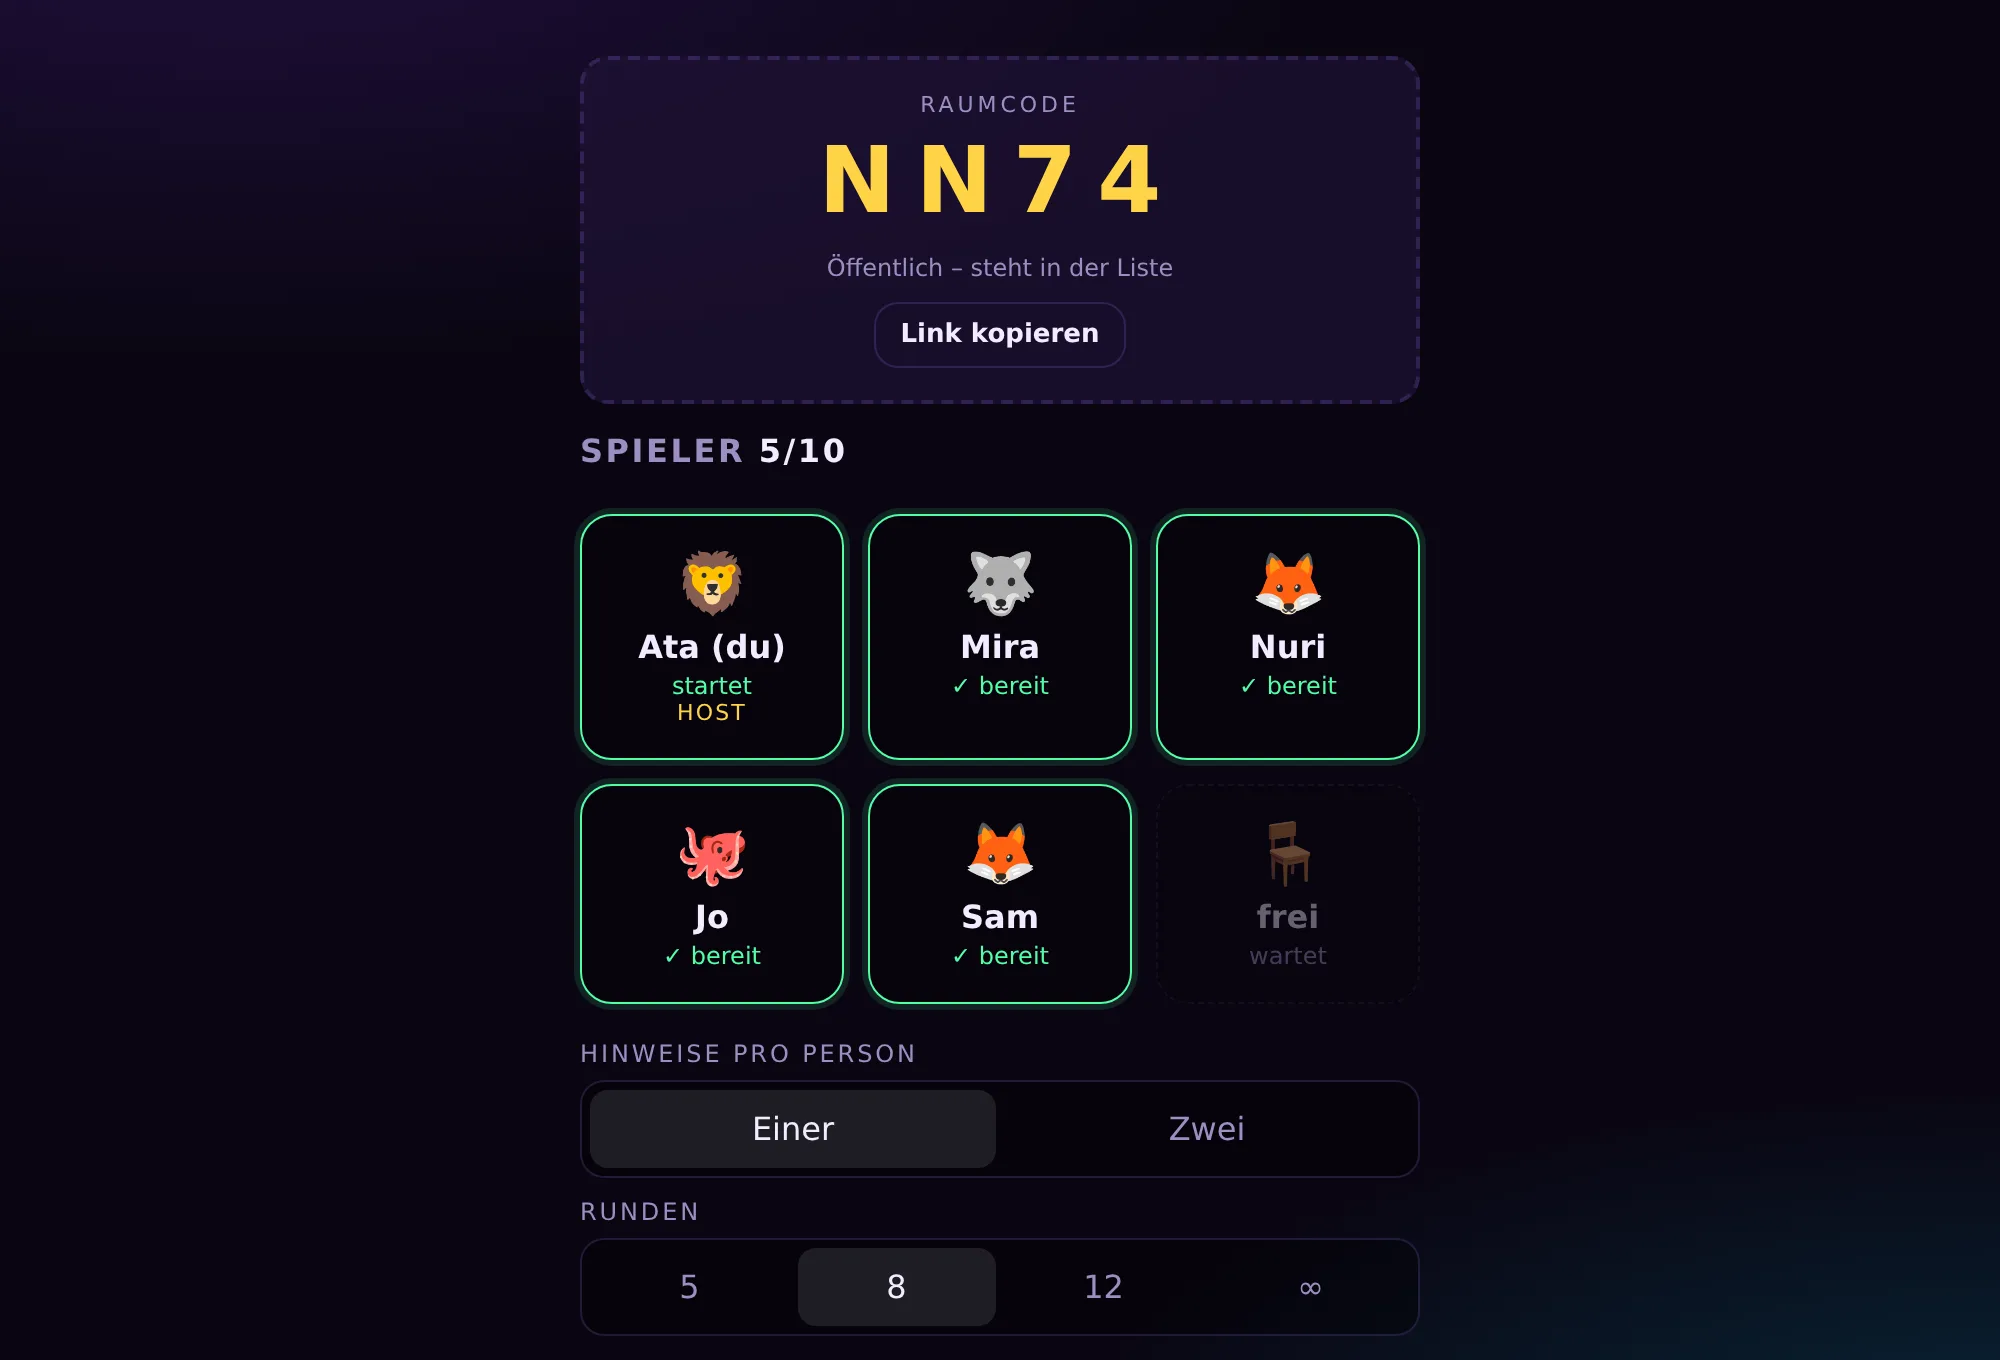
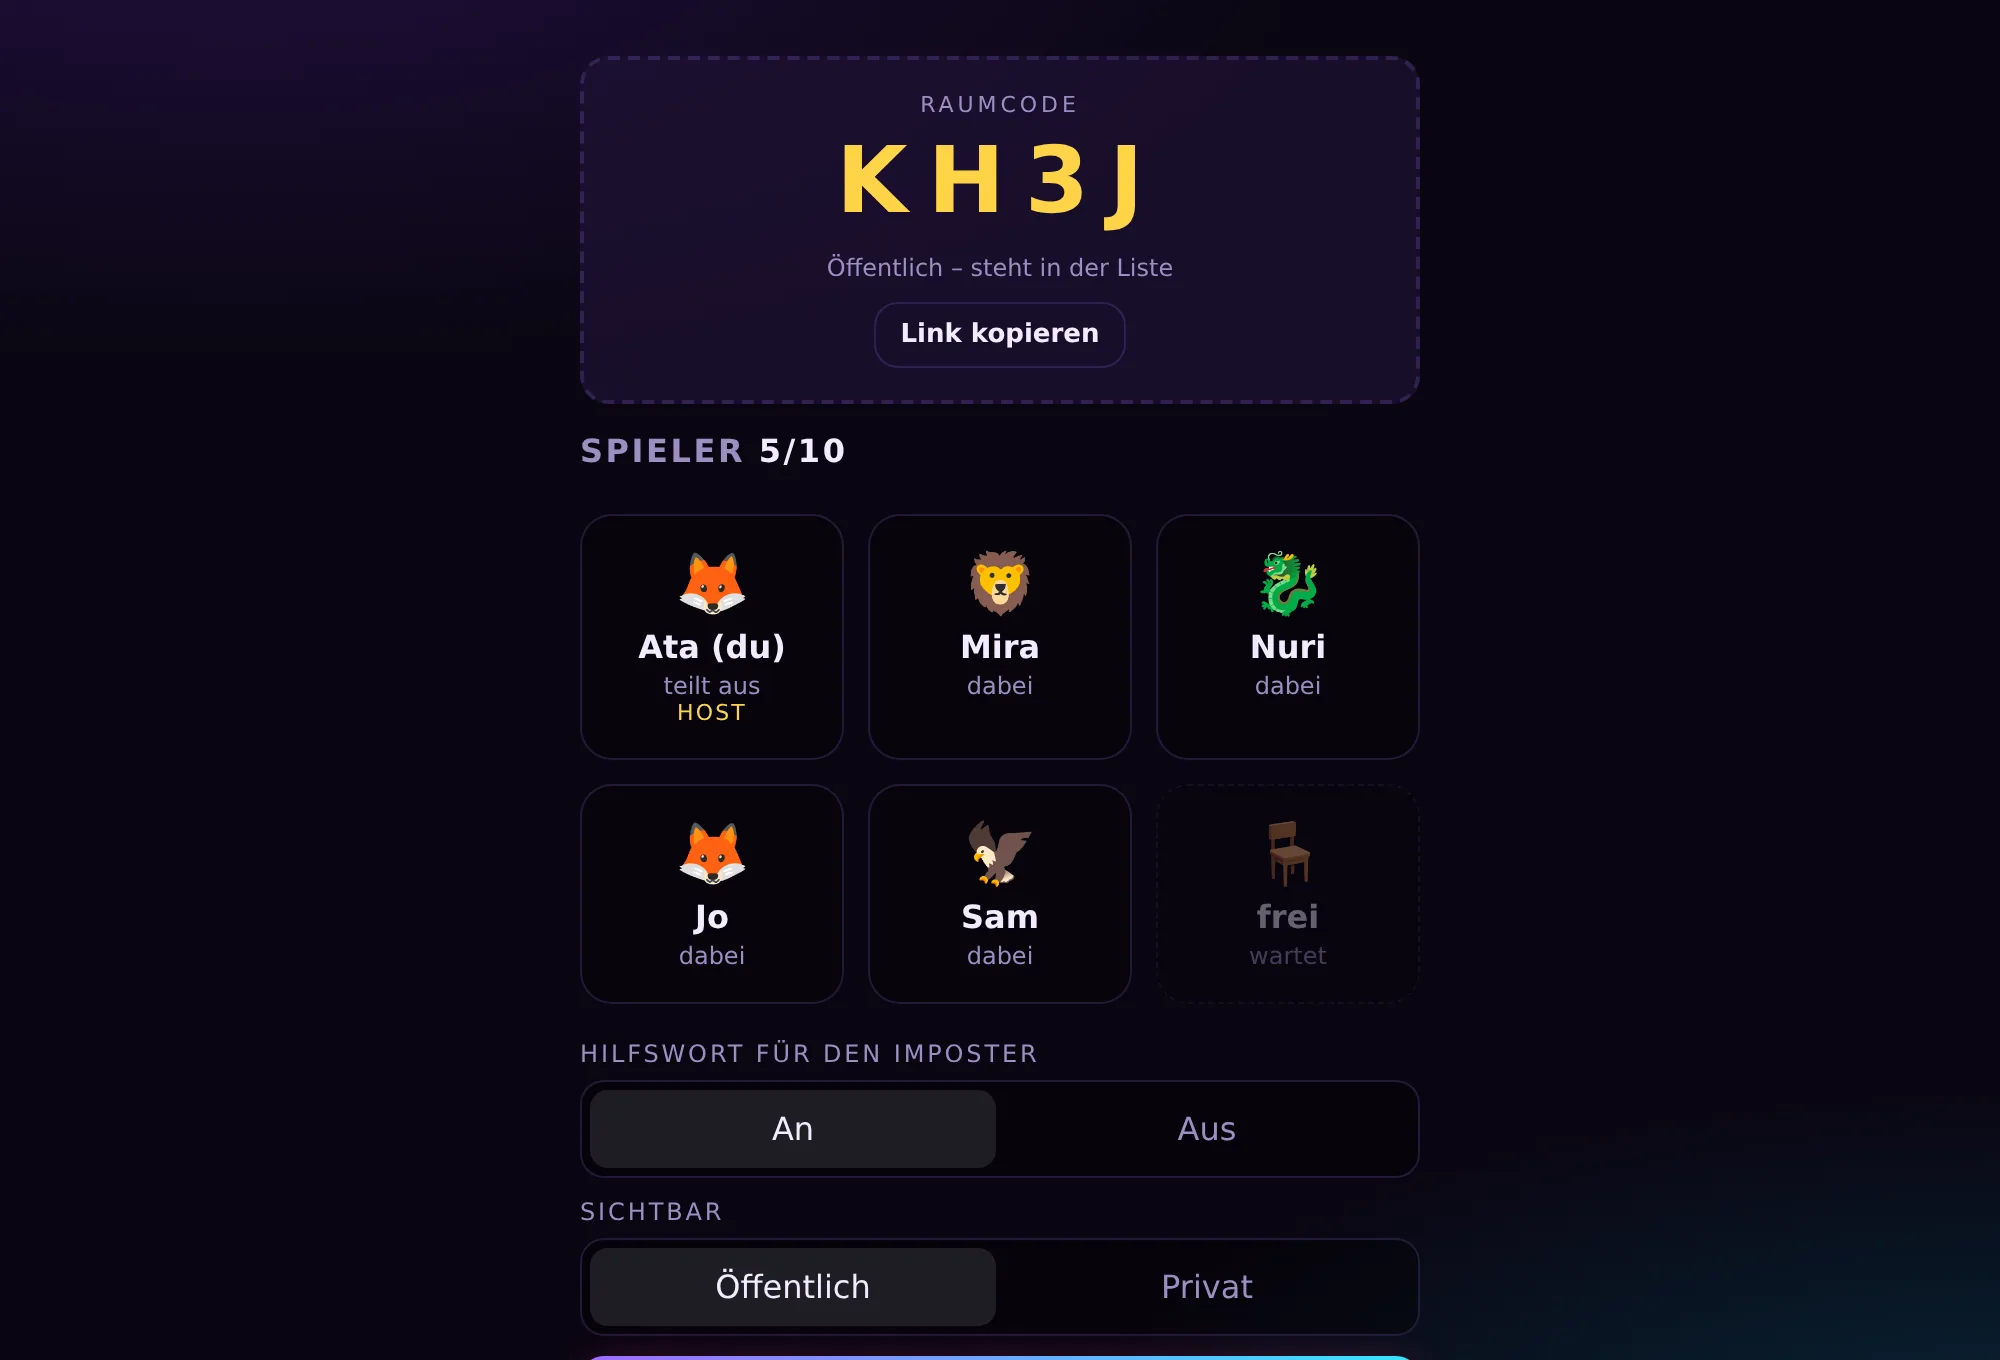
Imposter ohne Ablauf: Kachel, Bilder und die gemeinsamen Proben nachziehen
Imposter teilt nur noch Karten aus – kein Bereitmelden, keine
Hinweisreihe, keine Abstimmung, keine Punkte. Alles, was das von aussen
beschreibt oder abklopft, stimmte damit nicht mehr.

Kachel und Anleitung sagen jetzt, was wirklich passiert, und „4–10"
wird zu „3–10" (die Vier stand da wegen der Abstimmung). Die Bilder sind
neu aufgenommen: fuer die Kachel diesmal die **aufgeloeste** Runde, denn
waehrend der Runde steht auf dem Bildschirm nur ein Wort, und das ist
als Vorschaubild zu wenig.

Zwei gemeinsame Proben haben angenommen, jedes Spiel sei wie die
anderen gebaut – das war bisher wahr und ist es jetzt nicht mehr:

- `lobbyprobe.mjs` wartete auf „alle bereit", bevor sie starten liess,
  und erwartete bei L12, dass ein Nachzuegler abprallt. Beides haengt
  jetzt an zwei Merkmalen, die sie sich wie schon `kannEnde` aus dem
  Quelltext liest. L09 nimmt ausserdem den Warteraum als gueltiges Ende
  einer Runde an, nicht nur einen Endstand.
- `pruefe-ausgang.mjs` blendete `#screen-final` ein, um den Ausgang zu
  testen. Den Bildschirm gibt es nicht mehr; geprueft wird jetzt der
  letzte, den das Spiel tatsaechlich hat.

Beide bleiben fuer die anderen Spiele unveraendert gruen (nochnie und
maexchen gegengeprueft, pruefe-ausgang 64/64).

diff --git a/spiele/index.html b/spiele/index.html
@@ -834,10 +834,10 @@ footer a { color: inherit; }
         <h3>Imposter</h3>
       </div>
       <p class="kurz">Alle kennen das Wort. Bis auf einen – und der muss so tun, als ob.</p>
-      <p class="lang">Alle bekommen dasselbe Wort – bis auf einen. Der kennt nur die Gruppe und muss so tun, als wüsste er Bescheid. Reihum ein Hinweis, dann wird abgestimmt. Der längste Abend von allen.</p>
+      <p class="lang">Alle bekommen dasselbe Wort – bis auf einen. Das Handy zeigt nur das Wort und teilt sonst nichts ein: reihum reden, aufeinander zeigen und streiten macht ihr am Tisch. Der längste Abend von allen.</p>
       <div class="meta">
         <span class="dot" data-status></span>
-        <span class="tag">4–10 Spieler</span>
+        <span class="tag">3–10 Spieler</span>
         <span class="tag">Rollen</span>
         <span class="go">Spielen →</span>
       </div>
@@ -846,13 +846,13 @@ footer a { color: inherit; }
          JS-Objekt, damit jedes Spiel genau einmal in dieser Datei beschrieben
          ist. -->
     <template class="ablauf">
-        <li>Raum aufmachen, Link weitergeben – vier bis zehn Leute, jeder mit eigenem Handy.</li>
-        <li>Alle bekommen dasselbe Wort, zum Beispiel „Schleifpapier“. Einer bekommt es nicht: er sieht nur die Gruppe, also „Werkzeug“ – und, wenn der Host es in der Lobby angeschaltet hat, ein einzelnes Hilfswort aus derselben Gruppe.</li>
-        <li>Reihum sagt jeder laut ein Hinweiswort. Nicht zu deutlich, sonst weiß der Imposter gleich Bescheid – aber auch nicht zu vage, sonst hält man dich selbst für ihn.</li>
-        <li>Der Imposter hört zu und hängt sich irgendwo an. Sein Hilfswort ist nie das gesuchte – es gibt ihm nur einen Faden, an dem er sich entlanghangeln kann. Ohne Hilfswort wird es deutlich härter.</li>
-        <li>Danach stimmen alle ab, wer es war. Aufgedeckt wird erst, wenn jeder gewählt hat. Bei Gleichstand hat sich die Runde nicht geeinigt – der Imposter ist durch.</li>
-        <li>Wird er erwischt, darf er noch einmal raten: jetzt sieht er alle Wörter der Gruppe und wählt eines. Trifft er, rettet er einen Punkt.</li>
-        <li>Punkte: unerkannt durchgekommen gibt 2 für den Imposter, erwischt und richtig geraten 1. Erwischt und danebengeraten heißt: jeder andere bekommt 1.</li>
+        <li>Raum aufmachen, Link weitergeben – drei bis zehn Leute an einem Tisch, jeder mit eigenem Handy. Kein Bereitmelden: wer im Raum ist, ist dabei.</li>
+        <li>Der Host tippt auf „Austeilen“. Alle bekommen dasselbe Wort, zum Beispiel „Schleifpapier“. Einer bekommt es nicht – der sieht nur, dass er der Imposter ist.</li>
+        <li>Ist das <b>Hilfswort</b> in der Lobby angeschaltet, bekommt der Imposter dazu ein einzelnes Wort aus derselben Gruppe – nie das gesuchte. Ausgeschaltet hat er gar nichts.</li>
+        <li>Reihum sagt jeder laut ein Wort dazu. Wer anfängt und wie herum es geht, macht ihr selbst aus – das Handy sagt niemandem, dass er dran ist.</li>
+        <li>Nicht zu deutlich, sonst weiß der Imposter gleich Bescheid – aber auch nicht zu vage, sonst hält man dich selbst für ihn.</li>
+        <li>Am Ende zeigt ihr aufeinander. Laut, gleichzeitig, wie ihr wollt. Das Handy stimmt nicht ab und zählt keine Punkte.</li>
+        <li>Der Host tippt auf „Auflösen“: alle sehen, wer es war und wie das Wort hieß. Dann teilt er neu aus.</li>
     </template>
   </article>
 

diff --git a/doku/pruefen.md b/doku/pruefen.md
@@ -298,7 +298,8 @@ Ein Bild muss die Mechanik **zeigen**. Beispiele, wo das Arbeit war: bei
 Mäxchen wird so lange weitergewürfelt, bis ein gemischter Wurf fällt (bei einem
 Mäxchen ist alles grün und die Bildunterschrift widerlegt sich selbst); bei
 Wer am ehesten werden die Stimmen absichtlich ungleich verteilt; bei Imposter
-wird die Seite eines **Nicht**-Imposters geknipst.
+wird die **aufgelöste** Runde geknipst – während der Runde zeigt der Bildschirm
+nur ein Wort und sonst nichts, und das ist als Kachelbild zu wenig.
 
 Die Bilder landen als WebP in `spiele/bilder/`. Voraussetzungen auf dem Server:
 Playwright samt Chromium (**nicht** `--with-deps`, das kaputte MongoDB-Repo

diff --git a/doku/neues-spiel.md b/doku/neues-spiel.md
@@ -1,7 +1,7 @@
 # Ein neues Server-Spiel bauen
 
 Vorlage ist **`/var/www/html/amehesten/`** – am wenigsten Sonderfälle und das
-erste Spiel auf `raum.js`. `imposter` ist das komplexeste, `nochnie` das
+erste Spiel auf `raum.js`. `cardchaos` ist das komplexeste, `nochnie` das
 älteste.
 
 Freien Port holen: `jq -r '.portsFrei[0]' spiele.json`. Danach den Port dort
